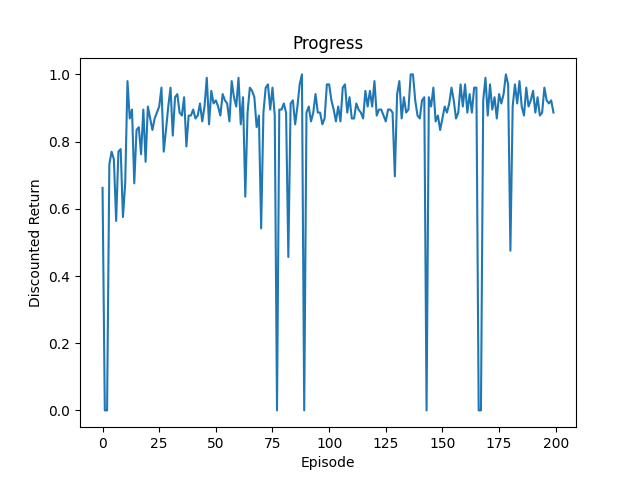
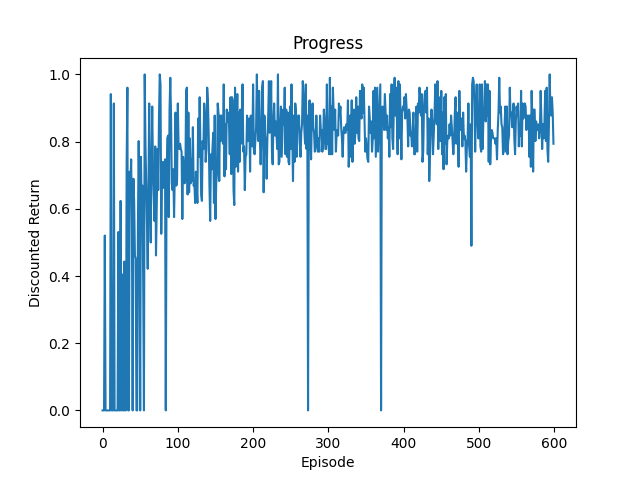
Project Fin

diff --git a/code/agent.py b/code/agent.py
@@ -1,6 +1,7 @@
 import random
 import numpy as np
 from multi_armed_bandits import *
+from collections import deque
 
 
 
@@ -202,17 +203,38 @@ class TDLambdaLearner(TemporalDifferenceLearningAgent):
         action_values = [q_values[a] for a in range(self.nr_actions)]
         return epsilon_greedy(action_values, None, epsilon=self.epsilon)
 
+
     def initialize_q_values(self, env):
-        max_distance = env.width + env.height
+        max_distance = env.width + env.height  # Used for fallback heuristic calculation
         goal_x, goal_y = env.goal_position
         negative_reward = -1  # Penalty for hitting a wall or obstacle
+        obstacles = set(env.obstacles)
+
+        def bfs_distance(start):
+            """Returns the BFS distance to the goal from start, considering obstacles."""
+            if start == (goal_x, goal_y):
+                return 0
+            visited = set([start])
+            queue = deque([(start, 0)])  # Each item is (position, distance)
+            while queue:
+                (x, y), dist = queue.popleft()
+                for dx, dy in [(0, 1), (1, 0), (-1, 0), (0, -1)]:  # 4 directions: N, E, S, W
+                    next_pos = (x + dx, y + dy)
+                    if next_pos not in visited and next_pos not in obstacles:
+                        if next_pos == (goal_x, goal_y):
+                            return dist + 1
+                        if self.is_within_bounds(next_pos, env):
+                            visited.add(next_pos)
+                            queue.append((next_pos, dist + 1))
+            return max_distance  # Fallback if no path is found
 
         for x in range(env.width):
             for y in range(env.height):
                 state = np.array([x, y])
                 state_str = np.array2string(state)
+                distance = bfs_distance((x, y))
 
-                distance = abs(x - goal_x) + abs(y - goal_y)
+                # Calculate heuristic value based on BFS distance
                 heuristic_value = (max_distance - distance) / max_distance
 
                 # Check for strategic positioning between obstacles
@@ -225,8 +247,9 @@ class TDLambdaLearner(TemporalDifferenceLearningAgent):
                     if next_pos in env.obstacles or not self.is_within_bounds(next_pos, env):
                         self.Q_values[(state_str, action)] = negative_reward
                     else:
-                        # Set Q-value based on whether the position is strategic and its distance to the goal
+                        # Set Q-value based on BFS distance to the goal and strategic positioning
                         self.Q_values[(state_str, action)] = strategic_value
+
 
     def is_strategic_position(self, x, y, env):
         """Check if there are obstacles in opposite cardinal directions."""
@@ -243,6 +266,7 @@ class TDLambdaLearner(TemporalDifferenceLearningAgent):
         east_west_opposites = east and west
 
         return north_south_opposites or east_west_opposites
+        # return False
 
     def predict_next_position(self, x, y, action, env):
         if action == MOVE_NORTH:

diff --git a/code/main.py b/code/main.py
@@ -9,7 +9,7 @@ def episode(env, agent, nr_episode=0):
     # print(env.obstacles)
     # return
     discounted_return = 0
-    discount_factor = 0.99
+    discount_factor = 0.997
     done = False
     time_step = 0
     while not done:
@@ -31,7 +31,7 @@ rooms_instance = sys.argv[1]
 env = rooms.load_env(f"layouts/{rooms_instance}.txt", f"{rooms_instance}.mp4")
 params["nr_actions"] = env.action_space.n
 params["gamma"] = 0.99
-params["epsilon_decay"] = 0.001
+params["epsilon_decay"] = 0.0001
 params["alpha"] = 0.1
 params["env"] = env
 
@@ -42,7 +42,7 @@ params['lambda'] = 0.8  # Or another value you wish to use
 agent = a.TDLambdaLearner(params)
 
 #agent = a.TDLambdaLearner(params)
-training_episodes = 200
+training_episodes = 600
 returns = [episode(env, agent, i) for i in range(training_episodes)]
 
 graph_data = {

diff --git a/code/compare.py b/code/compare.py
@@ -48,21 +48,21 @@ def main():
             agents_returns = json.load(file)
     else:
         # Initialize the environment
-        rooms_instance = "medium_1"
+        rooms_instance = "hard_0"
         env = rooms.load_env(f"layouts/{rooms_instance}.txt", f"{rooms_instance}.mp4")
 
         # Initialize common parameters, including 'env'
         params = {
             "nr_actions": env.action_space.n,
             "gamma": 0.99,
-            "epsilon_decay": 0.001,
+            "epsilon_decay": 0.0001,
             "alpha": 0.1,
             "env": env,
             "lambda": 0.8,  # For TDLambdaLearner
         }
 
         # Define the number of episodes for training
-        training_episodes = 200
+        training_episodes = 600
 
         # List of agent classes to compare
         agent_classes = [
